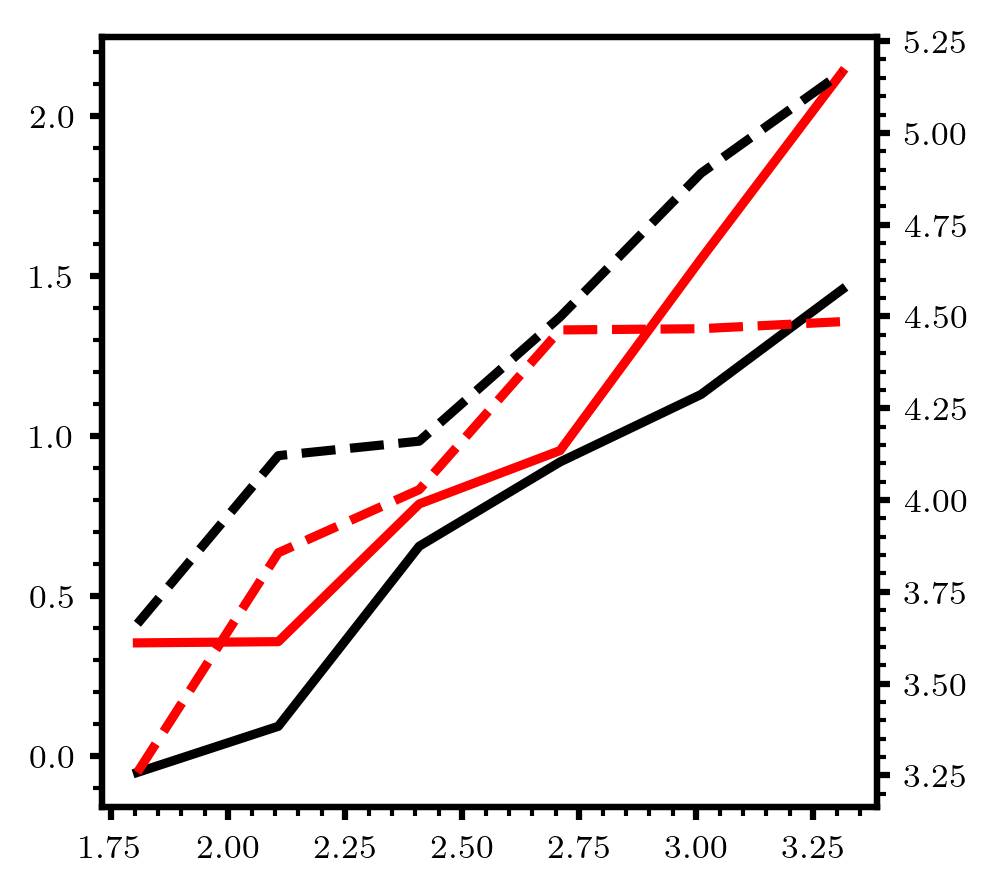
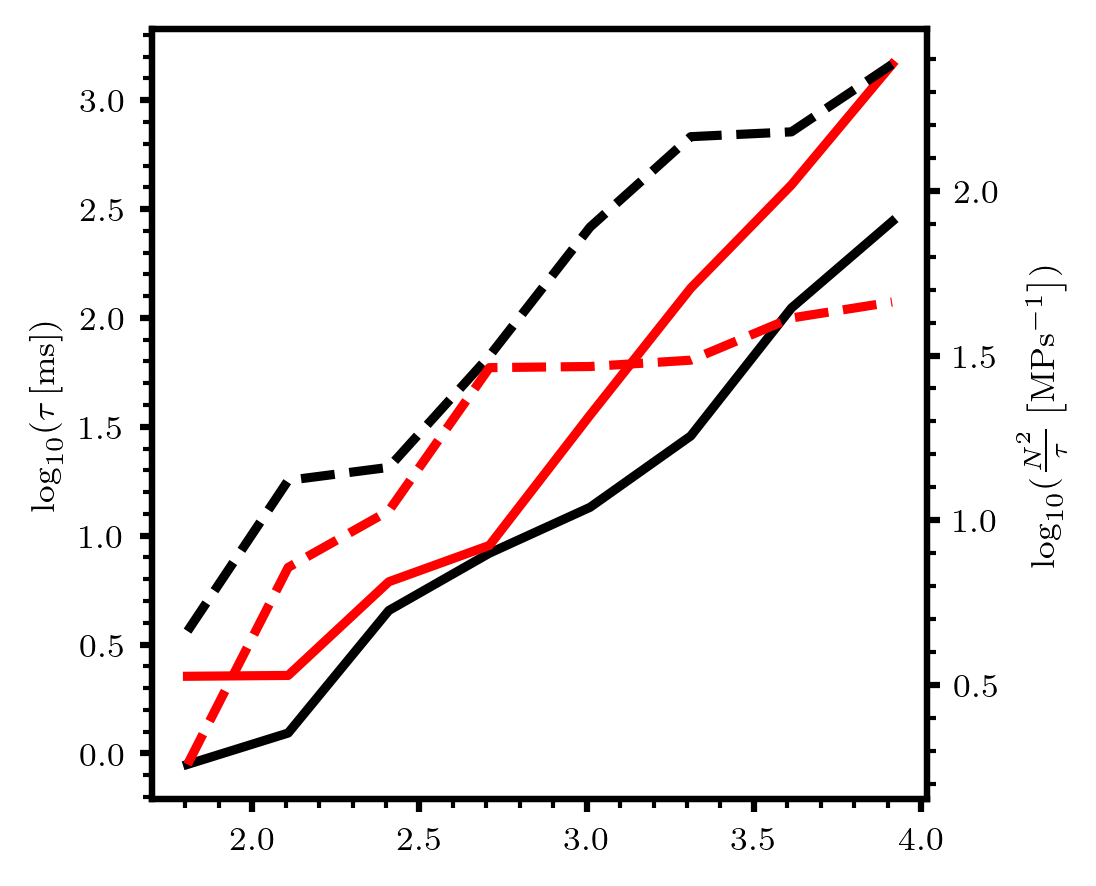
prep for simple data gen

diff --git a/scripts/pluto_examples.py b/scripts/pluto_examples.py
@@ -278,6 +278,10 @@ def run_profiler():
     npy_load_str = "/mnt/kocsis1/cuDART_wdir/emm_data/emm_1000MHz.npy"
     npy_save_str = "/mnt/kocsis1/cuDART_wdir/emm_img/raw"
 
+    data = np.load(npy_load_str)
+    print(np.shape(data))
+    return
+
     template_camera = Camera()
     template_camera.num_pixels_X = 2048
     template_camera.num_pixels_Y = 2048
@@ -306,24 +310,27 @@ def plot_profiler_results():
     ax = fig.add_subplot()
     axr = ax.twinx()
 
-    image_dims = np.array([64, 128, 256, 512, 1024, 2048])
+    image_dims = np.array([64, 128, 256, 512, 1024, 2048, 4096, 8192])
     log10_image_dims = np.log10(image_dims)
-    unboosted_ms = np.array([0.890, 1.24, 4.53, 8.31, 13.5, 28.7])
-    boosted_ms = np.array([2.26, 2.28, 6.14, 9.02, 35.8, 137])
+    unboosted_ms = np.array([0.890, 1.24, 4.53, 8.31, 13.5, 28.7, 111, 277])
+    boosted_ms = np.array([2.26, 2.28, 6.14, 9.02, 35.8, 137, 408, 1460])
 
-    unboosted_pp_ms = image_dims ** 2 / unboosted_ms
-    boosted_pp_ms = image_dims ** 2 / boosted_ms
+    unboosted_mp_ps = 1e-6 * image_dims ** 2 / (1e-3 * unboosted_ms)
+    boosted_mp_ps = 1e-6 * image_dims ** 2 / (1e-3 * boosted_ms)
 
+    ax.set_xlabel(r"$\log_{10}(N)$")
+    ax.set_ylabel(r"$\log_{10}(\tau \left[\mathrm{ms}\right])$")
     ax.plot(log10_image_dims, np.log10(unboosted_ms), color='k')
     ax.plot(log10_image_dims, np.log10(boosted_ms), color='r')
 
-    axr.plot(log10_image_dims, np.log10(unboosted_pp_ms), color='k', linestyle="dashed")
-    axr.plot(log10_image_dims, np.log10(boosted_pp_ms), color='r', linestyle="dashed")
+    axr.set_ylabel(r"$\log_{10}(\frac{N^2}{\tau} \left[\mathrm{MPs}^{-1}\right])$")
+    axr.plot(log10_image_dims, np.log10(unboosted_mp_ps), color='k', linestyle="dashed")
+    axr.plot(log10_image_dims, np.log10(boosted_mp_ps), color='r', linestyle="dashed")
 
     fig.savefig("profile.png", dpi=300, bbox_inches="tight")
 
 if __name__ == "__main__":
 
-    run_profiler()
+    plot_profiler_results()
 
     
